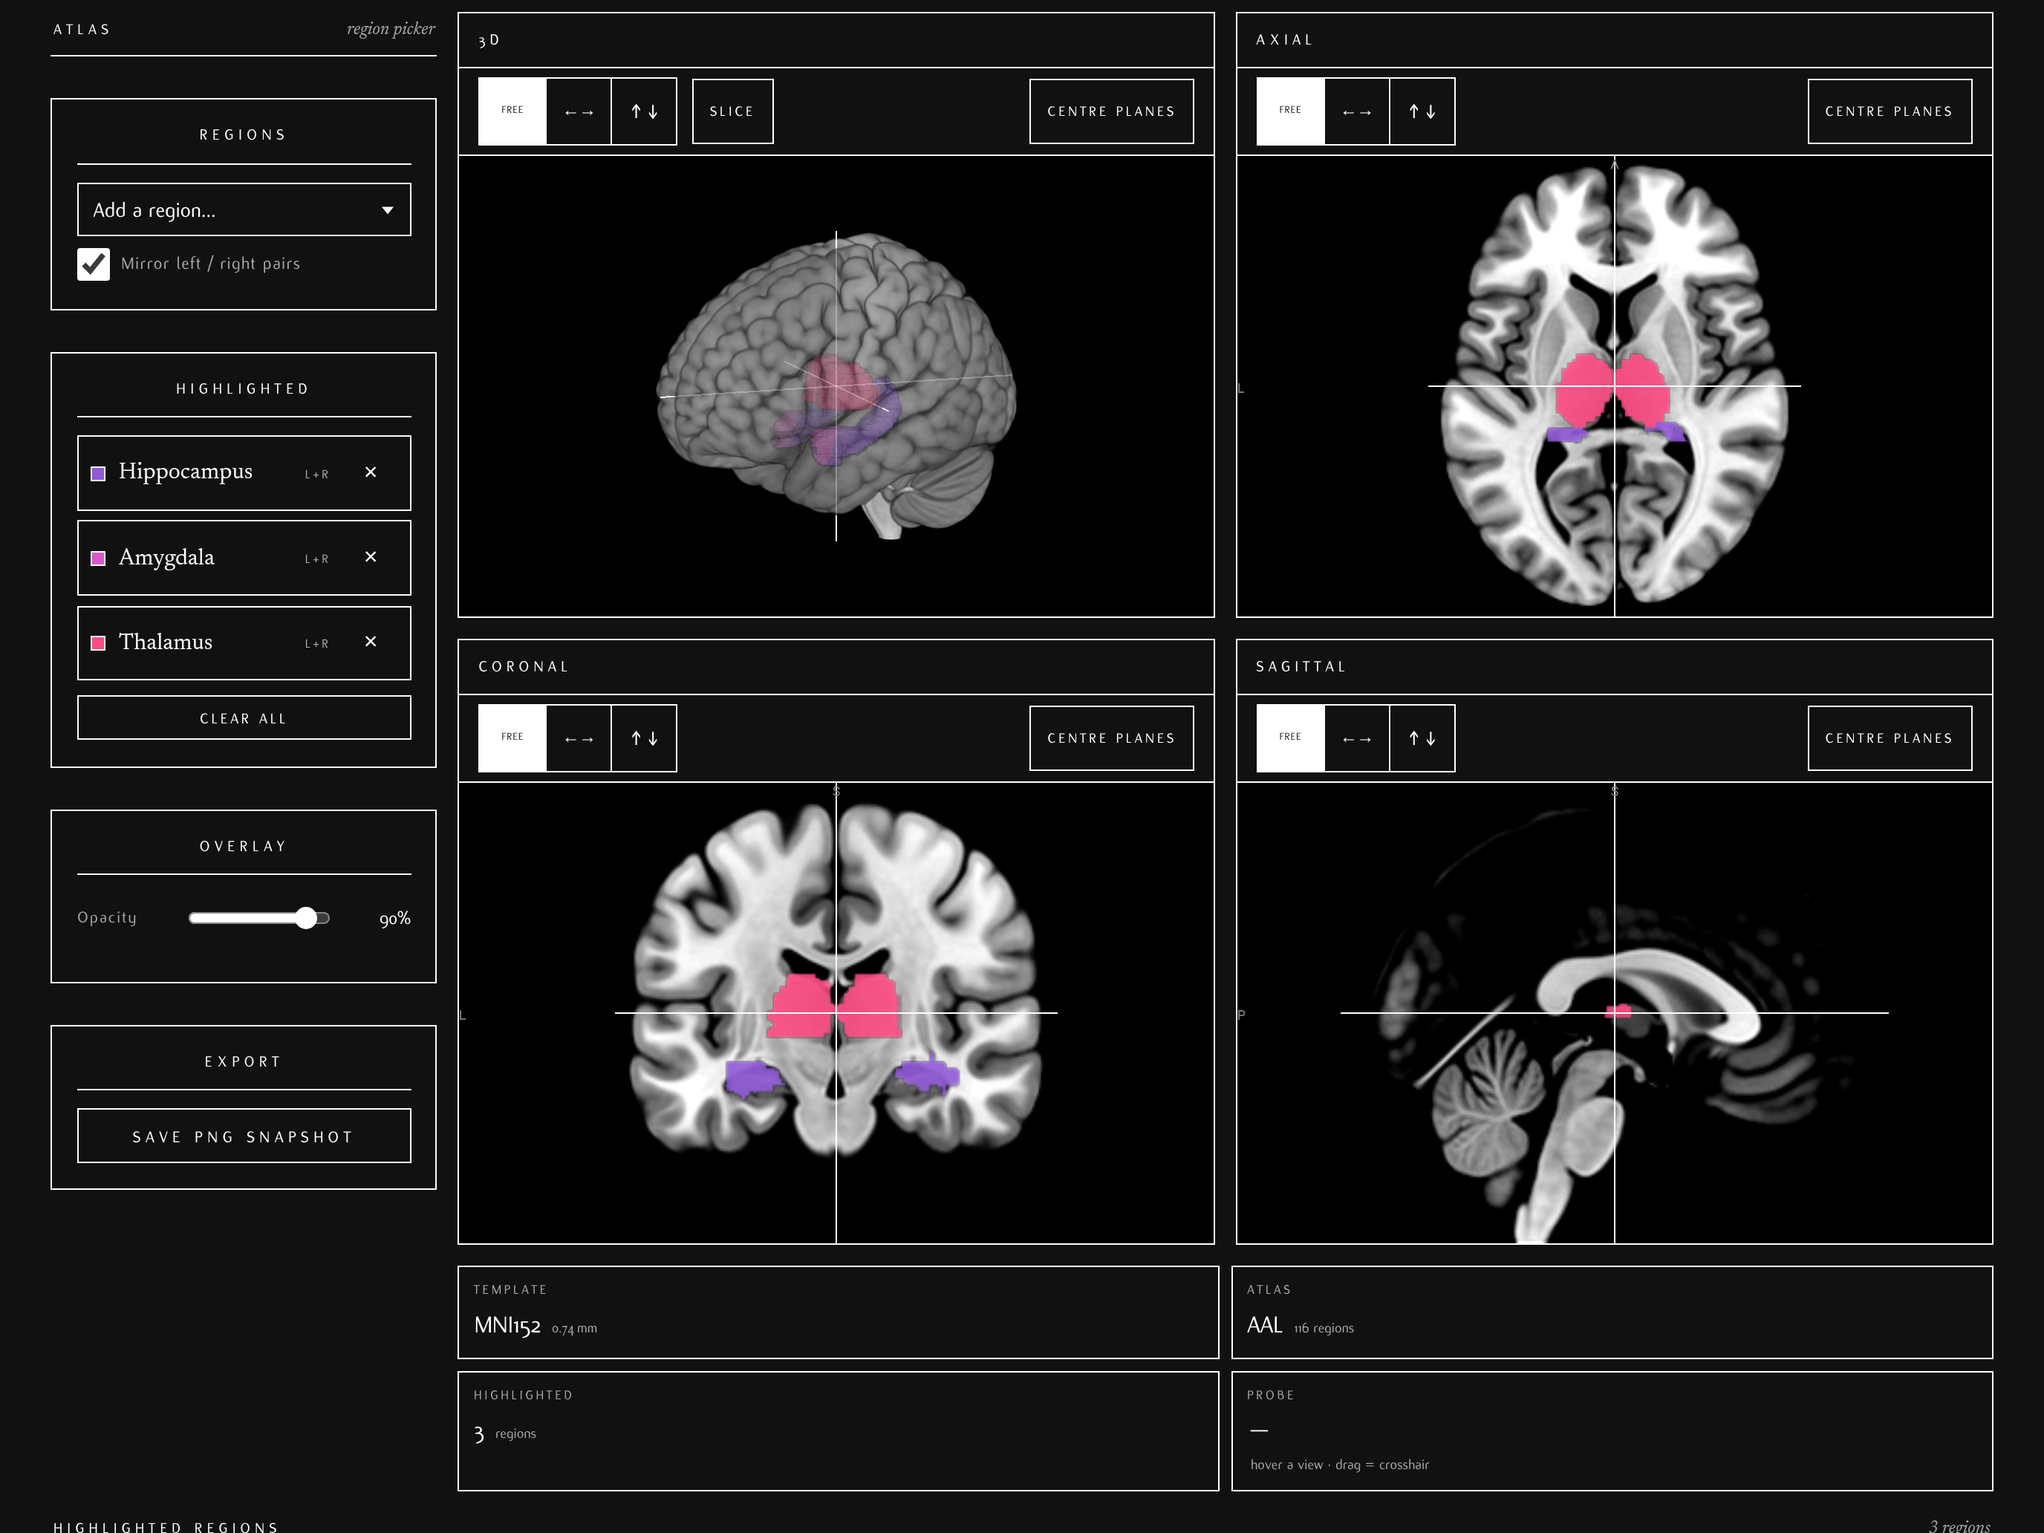
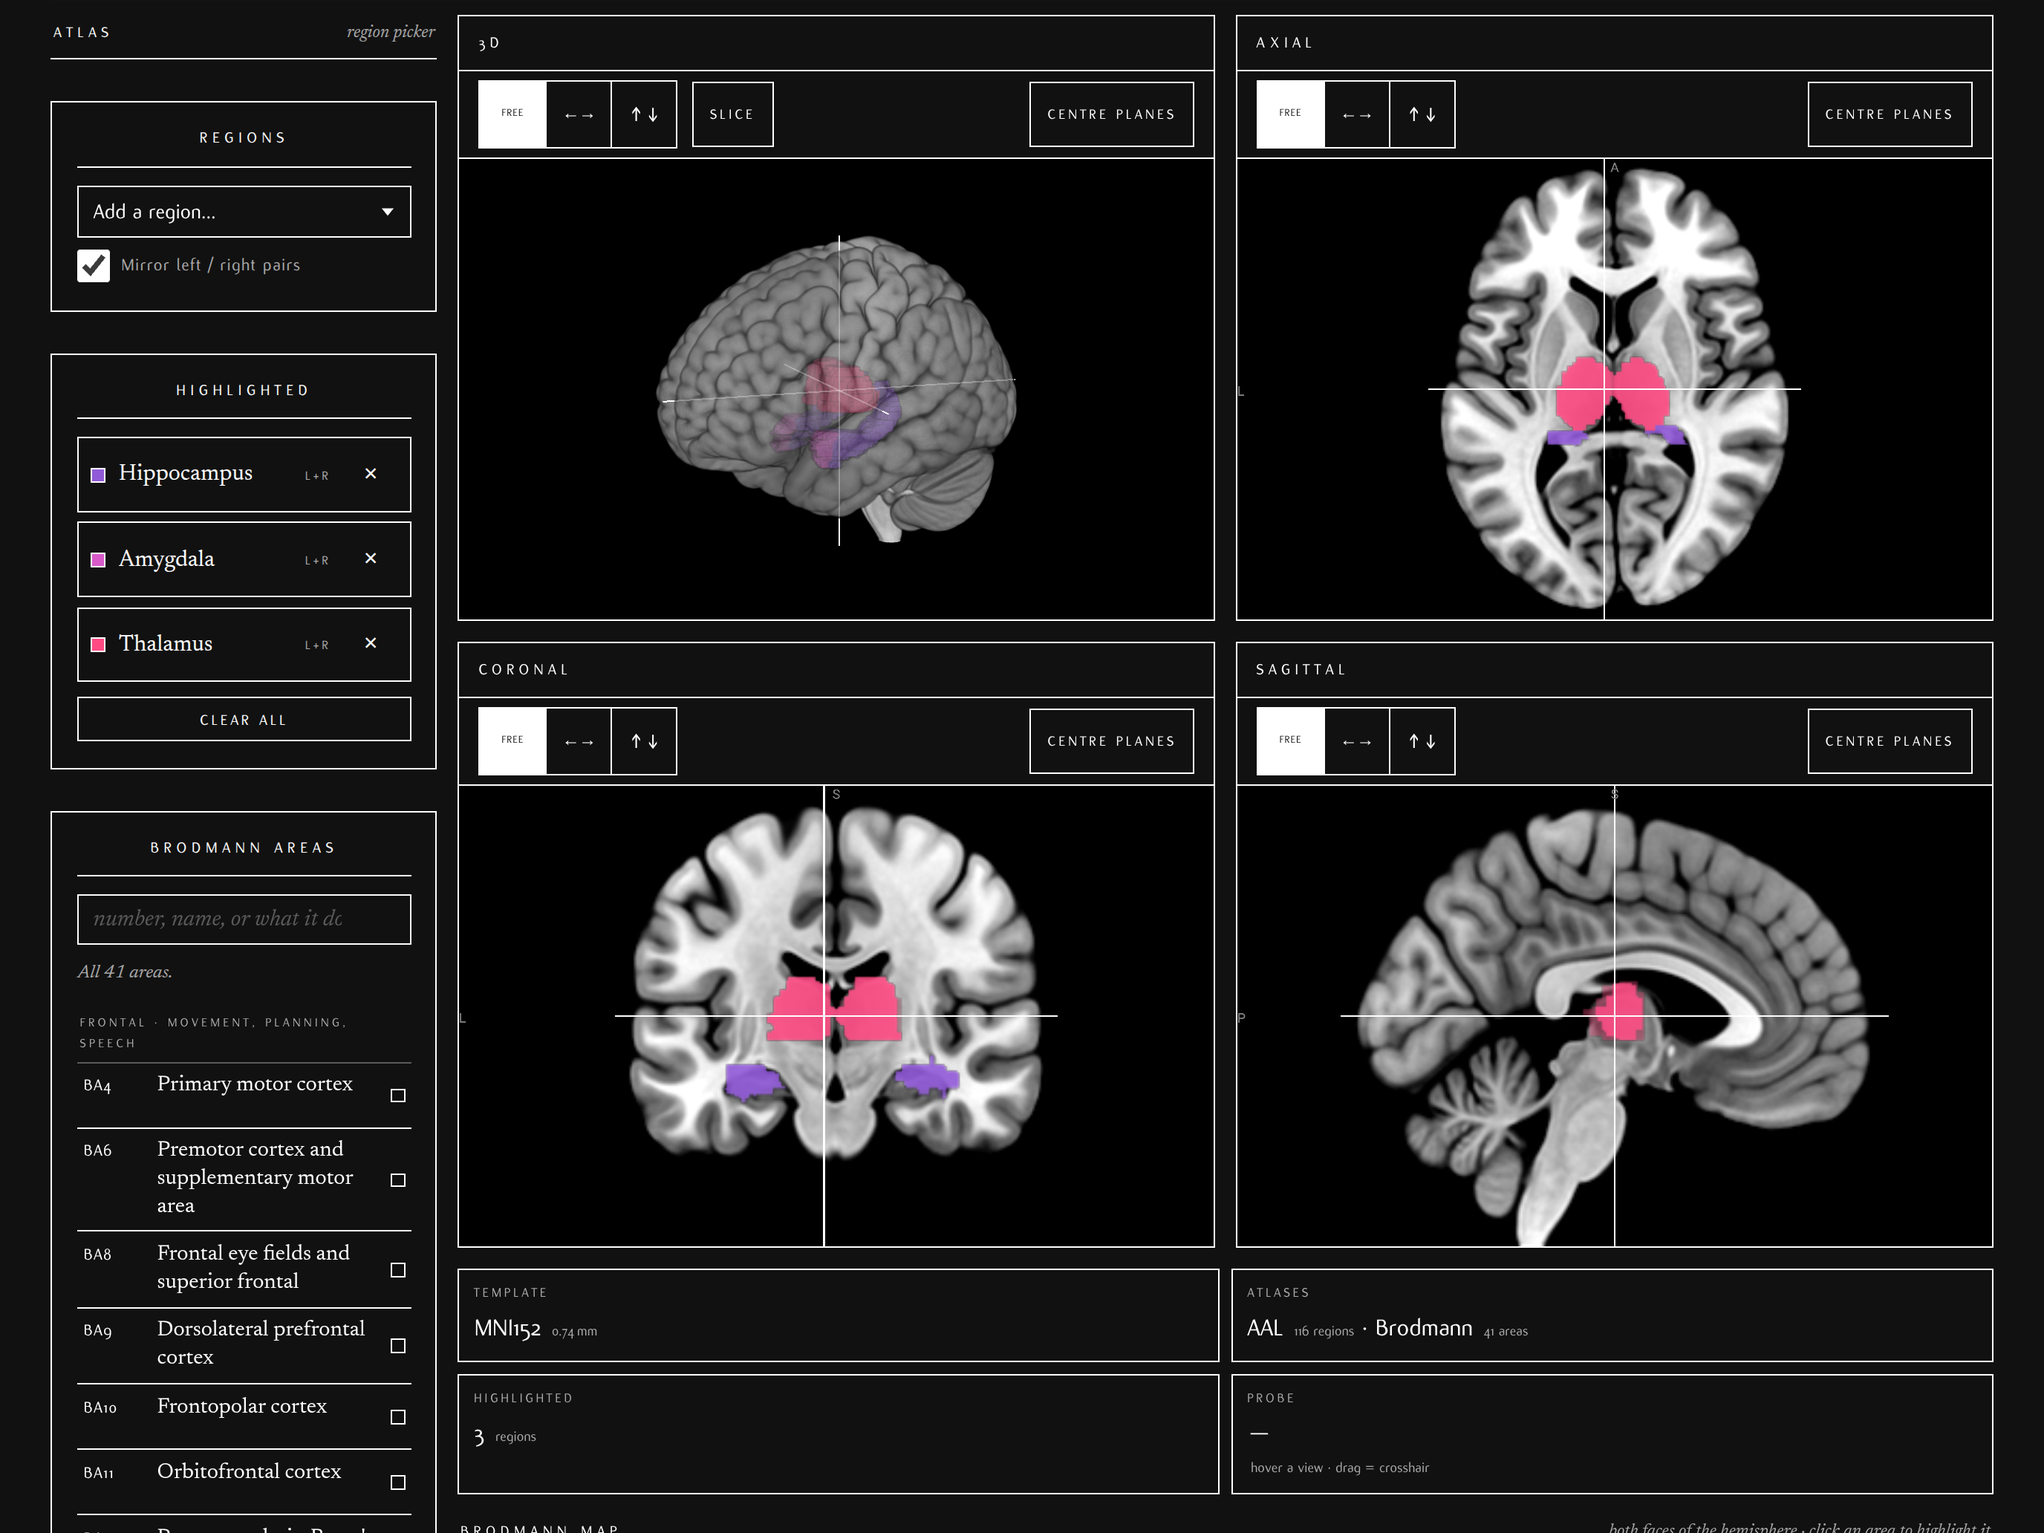
Start the sagittal plane beside the midline rather than in the gap between the hemispheres
The Region Atlas, the Network Atlas, the hallucinations page and the Vision Pro planes opened the sagittal view on the midline, which is the fluid between the hemispheres. They now open 4 mm into the left hemisphere and Centre planes returns there. Centring on a region goes to the left half of a pair, placed in millimetres from the atlas's own voxels, where the old fractional sum could land a centimetre or more off because the atlas and the template are different grids. A region picked from the atlas list now centres the planes on it, as a Brodmann area already did. The home page's picture of the atlas and the store screenshots of the atlas and the network page are retaken with the new view.

diff --git a/site/regions.html b/site/regions.html
@@ -1209,15 +1209,29 @@ mark{ background:var(--ink); color:var(--paper); }
     finally{ correcting = false; }
   }
 
-  /* Put the crosshair back at the middle of the volume, so every plane shows
-     its central slice again, and undo any panning or zooming with it. */
+  /* The planes start in the middle of the volume, bar one. The exact midline
+     runs down the fissure between the hemispheres, where a sagittal slice
+     finds only fluid and shows the corpus callosum and the brainstem floating
+     in black. So whenever a move would leave the sagittal plane within 4 mm
+     of the midline (at the start, on Centre planes, or centring on a region
+     or a Brodmann area) it goes 4 mm into the left hemisphere instead, onto
+     the medial wall of the cortex. */
+  var OFF_MIDLINE = 4;
+  function clearOfMidline(mm){
+    return [Math.abs(mm[0]) < OFF_MIDLINE ? -OFF_MIDLINE : mm[0], mm[1], mm[2]];
+  }
+  function homeMm(nv){ return clearOfMidline(nv.frac2mm([0.5, 0.5, 0.5])); }
+
+  /* Put the planes back where they started, and undo any panning or zooming
+     with them. */
   function centrePlanes(){
     var nvs = allNV();
     if (!nvs.length) return;
     correcting = true;
     try{
+      var home = homeMm(nvs[0]);
       nvs.forEach(function(inst){
-        inst.scene.crosshairPos = [0.5, 0.5, 0.5];
+        inst.scene.crosshairPos = inst.mm2frac(home);
         inst.scene.pan2Dxyzmm = [0, 0, 0, 1];
         inst.drawScene();
       });
@@ -1546,23 +1560,30 @@ mark{ background:var(--ink); color:var(--paper); }
       return e ? e.color : null;
     },
     lit: litColour,
+    /* A left–right pair is centred on its left member: the middle of a pair
+       is the midline, where the sagittal plane shows neither half. The
+       centre is found in the atlas's own voxels and placed by millimetres,
+       since the template the crosshair is measured against is a different
+       grid. */
     centre: function(indices){
       var nv = allNV()[0];
       if (!nv || !nv.volumes || nv.volumes.length < 2) return;
-      var vol = nv.volumes[1], dims = vol.hdr.dims, img = vol.img;
-      var want = {}; indices.forEach(function(v){ want[v] = 1; });
+      var vol = nv.volumes[1], dims = vol.hdr.dims, img = vol.img, A = vol.hdr.affine;
+      var first = indices.filter(function(v){ return v != null; })[0];
+      if (first == null || !A) return;
       var sx = 0, sy = 0, sz = 0, n = 0;
       for (var k2 = 0; k2 < dims[3]; k2++)
         for (var j = 0; j < dims[2]; j++)
           for (var i2 = 0; i2 < dims[1]; i2++)
-            if (want[img[i2 + j*dims[1] + k2*dims[1]*dims[2]]]){ sx += i2; sy += j; sz += k2; n++; }
+            if (img[i2 + j*dims[1] + k2*dims[1]*dims[2]] === first){ sx += i2; sy += j; sz += k2; n++; }
       if (!n) return;
-      var frac = [sx/n/dims[1], sy/n/dims[2], sz/n/dims[3]];
-      allNV().forEach(function(inst){ inst.scene.crosshairPos = frac.slice(); inst.drawScene(); });
+      var v = [sx/n, sy/n, sz/n];
+      centreMm([0, 1, 2].map(function(r){ return A[r][0]*v[0] + A[r][1]*v[1] + A[r][2]*v[2] + A[r][3]; }));
     },
     onChange: function(cb){ selWatchers.push(cb); }
   };
   function centreMm(mm){
+    mm = clearOfMidline(mm);
     allNV().forEach(function(nv){
       try{ nv.scene.crosshairPos = nv.mm2frac(mm); nv.drawScene(); }catch(e){}
     });
@@ -1584,7 +1605,7 @@ mark{ background:var(--ink); color:var(--paper); }
         else if (mode === "L") entry = {name: r.pretty, base: r.base, sideTag: "L", indices: [r.L], color: nextColor()};
         else if (mode === "R") entry = {name: r.pretty, base: r.base, sideTag: "R", indices: [r.R], color: nextColor()};
         else if (mode === "S") entry = {name: r.pretty, base: r.base, sideTag: "", indices: [r.S], color: nextColor()};
-        if (entry){ selections.set(key, entry); renderChips(); applyColormap(); }
+        if (entry){ selections.set(key, entry); renderChips(); applyColormap(); window.MN_SEL.centre(entry.indices); }
       }
     }
     selectEl.value = "";
@@ -2067,6 +2088,8 @@ mark{ background:var(--ink); color:var(--paper); }
                            .map(function(q){ return INSTANCES[q.key]; });
         INSTANCES[p.key].broadcastTo(others, {"2d": true, "3d": true});
       });
+      var home = homeMm(INSTANCES.axial);
+      allNV().forEach(function(inst){ inst.scene.crosshairPos = inst.mm2frac(home); });
 
       /* The slice tool goes on the 3D box only: a clip plane cuts the volume,
          which is what the render draws. The 2D planes already are slices. */

diff --git a/site/network-atlas.html b/site/network-atlas.html
@@ -548,8 +548,31 @@ function repaint(){
   paint(colouring);
 }
 
+/* The exact midline runs down the fissure between the hemispheres, where a
+   sagittal slice finds only fluid and shows the corpus callosum floating in
+   black. So whenever a move would leave the sagittal plane within 4 mm of
+   the midline (at the start, on Centre planes, or centring on a region) it
+   goes 4 mm into the left hemisphere instead, onto the medial wall of the
+   cortex. */
+const OFF_MIDLINE = 4;
+function clearOfMidline(mm){
+  return [Math.abs(mm[0]) < OFF_MIDLINE ? -OFF_MIDLINE : mm[0], mm[1], mm[2]];
+}
+function centrePlanes(){
+  const home = clearOfMidline(scanInstances[0].frac2mm([0.5, 0.5, 0.5]));
+  for (const inst of scanInstances){
+    inst.scene.crosshairPos = inst.mm2frac(home);
+    inst.scene.pan2Dxyzmm = [0, 0, 0, 1];
+    inst.drawScene();
+  }
+}
+
 /* Put the planes through the region that was picked, so the highlight is
-   actually on screen rather than three slices away. */
+   actually on screen rather than three slices away. A region that straddles
+   the midline, a left and right pair or a whole network, is centred on its
+   left half, for the reason above. The centre is found in the atlas's own
+   voxels and placed by millimetres, since the template the crosshair is
+   measured against is a different grid. */
 function centreOnRegion(n){
   if (!n.bases) return;
   centreOnParcels(parcelsOf(n));
@@ -557,19 +580,25 @@ function centreOnRegion(n){
 function centreOnParcels(list){
   if (scanState !== "ready" || !list.length) return;
   const want = new Set(list);
-  const vol = scanInstances[0].volumes[1], dims = vol.hdr.dims, img = vol.img;
-  let sx = 0, sy = 0, sz = 0, count = 0;
+  const vol = scanInstances[0].volumes[1], dims = vol.hdr.dims, img = vol.img, A = vol.hdr.affine;
+  const all = [0, 0, 0, 0], left = [0, 0, 0, 0];
   for (let k = 0; k < dims[3]; k++)
     for (let j = 0; j < dims[2]; j++)
       for (let i = 0; i < dims[1]; i++)
-        if (want.has(img[i + j*dims[1] + k*dims[1]*dims[2]])){ sx+=i; sy+=j; sz+=k; count++; }
-  if (!count) return;
-  const frac = [sx/count/dims[1], sy/count/dims[2], sz/count/dims[3]];
-  for (const inst of scanInstances){ inst.scene.crosshairPos = frac.slice(); inst.drawScene(); }
+        if (want.has(img[i + j*dims[1] + k*dims[1]*dims[2]])){
+          all[0]+=i; all[1]+=j; all[2]+=k; all[3]++;
+          if (A[0][0]*i + A[0][1]*j + A[0][2]*k + A[0][3] < 0){ left[0]+=i; left[1]+=j; left[2]+=k; left[3]++; }
+        }
+  if (!all[3]) return;
+  const mmOf = s => [0, 1, 2].map(r => (A[r][0]*s[0] + A[r][1]*s[1] + A[r][2]*s[2]) / s[3] + A[r][3]);
+  let mm = mmOf(all);
+  if (Math.abs(mm[0]) < OFF_MIDLINE && left[3]) mm = mmOf(left);
+  gotoMni(mm);
 }
 
 /* Regions with no parcel get the crosshair instead of a colour. */
 function gotoMni(mm){
+  mm = clearOfMidline(mm);
   for (const nv of scanInstances){
     try{
       nv.scene.crosshairPos = nv.mm2frac(mm);
@@ -611,6 +640,7 @@ async function ensureScan(){
     planes.forEach((p, i) => scanInstances[i].setSliceType(p.st));
     scanInstances.forEach(nv => nv.broadcastTo(
       scanInstances.filter(o => o !== nv), {"2d":true, "3d":true}));
+    centrePlanes();
 
     /* which node owns each parcel, for reading the ring back off the scan */
     for (const n of DATA.NODES){
@@ -619,13 +649,7 @@ async function ensureScan(){
     scanInstances.forEach(nv => { nv.onLocationChange = crosshairMoved; });
 
     document.querySelectorAll("[data-centre]").forEach(btn => {
-      btn.addEventListener("click", () => {
-        scanInstances.forEach(inst => {
-          inst.scene.crosshairPos = [0.5, 0.5, 0.5];
-          inst.scene.pan2Dxyzmm = [0, 0, 0, 1];
-          inst.drawScene();
-        });
-      });
+      btn.addEventListener("click", centrePlanes);
     });
     document.querySelectorAll(".mri-stage").forEach(stage => {
       stage.addEventListener("wheel", e => e.preventDefault(), {capture:true, passive:false});

diff --git a/site/hallucinations.html b/site/hallucinations.html
@@ -849,19 +849,48 @@ function repaint(){
   centreOnSelection();
 }
 
+/* The exact midline runs down the fissure between the hemispheres, where a
+   sagittal slice finds only fluid and shows the corpus callosum floating in
+   black. So whenever a move would leave the sagittal plane within 4 mm of
+   the midline (at the start, on Centre planes, or centring on a region) it
+   goes 4 mm into the left hemisphere instead, onto the medial wall of the
+   cortex. */
+const OFF_MIDLINE = 4;
+function clearOfMidline(mm){
+  return [Math.abs(mm[0]) < OFF_MIDLINE ? -OFF_MIDLINE : mm[0], mm[1], mm[2]];
+}
+function centrePlanes(){
+  const home = clearOfMidline(scanInstances[0].frac2mm([0.5, 0.5, 0.5]));
+  for (const inst of scanInstances){
+    inst.scene.crosshairPos = inst.mm2frac(home);
+    inst.scene.pan2Dxyzmm = [0, 0, 0, 1];
+    inst.drawScene();
+  }
+}
+
+/* A region that straddles the midline, as a left and right pair does, is
+   centred on its left half, for the reason above. The centre is found in the
+   atlas's own voxels and placed by millimetres, since the template the
+   crosshair is measured against is a different grid. */
 function centreOnSelection(){
   if (!selected || scanState !== "ready") return;
   const region = REGIONS.find(r => r.id === selected);
   const want = new Set(parcelsOf(region));
-  const nv = scanInstances[0], vol = nv.volumes[1], dims = vol.hdr.dims, img = vol.img;
-  let sx = 0, sy = 0, sz = 0, n = 0;
+  const nv = scanInstances[0], vol = nv.volumes[1], dims = vol.hdr.dims, img = vol.img, A = vol.hdr.affine;
+  const all = [0, 0, 0, 0], left = [0, 0, 0, 0];
   for (let k = 0; k < dims[3]; k++)
     for (let j = 0; j < dims[2]; j++)
       for (let i = 0; i < dims[1]; i++)
-        if (want.has(img[i + j*dims[1] + k*dims[1]*dims[2]])){ sx+=i; sy+=j; sz+=k; n++; }
-  if (!n) return;
-  const frac = [sx/n/dims[1], sy/n/dims[2], sz/n/dims[3]];
-  for (const inst of scanInstances){ inst.scene.crosshairPos = frac.slice(); inst.drawScene(); }
+        if (want.has(img[i + j*dims[1] + k*dims[1]*dims[2]])){
+          all[0]+=i; all[1]+=j; all[2]+=k; all[3]++;
+          if (A[0][0]*i + A[0][1]*j + A[0][2]*k + A[0][3] < 0){ left[0]+=i; left[1]+=j; left[2]+=k; left[3]++; }
+        }
+  if (!all[3]) return;
+  const mmOf = s => [0, 1, 2].map(r => (A[r][0]*s[0] + A[r][1]*s[1] + A[r][2]*s[2]) / s[3] + A[r][3]);
+  let mm = mmOf(all);
+  if (Math.abs(mm[0]) < OFF_MIDLINE && left[3]) mm = mmOf(left);
+  mm = clearOfMidline(mm);
+  for (const inst of scanInstances){ inst.scene.crosshairPos = inst.mm2frac(mm); inst.drawScene(); }
 }
 
 /* ── the rail's region list ── */
@@ -1102,14 +1131,9 @@ async function ensureScan(){
     planes.forEach((p, i) => scanInstances[i].setSliceType(p.st));
     scanInstances.forEach(nv => nv.broadcastTo(
       scanInstances.filter(o => o !== nv), {"2d":true, "3d":true}));
+    centrePlanes();
     document.querySelectorAll("[data-centre]").forEach(btn => {
-      btn.addEventListener("click", () => {
-        scanInstances.forEach(inst => {
-          inst.scene.crosshairPos = [0.5, 0.5, 0.5];
-          inst.scene.pan2Dxyzmm = [0, 0, 0, 1];
-          inst.drawScene();
-        });
-      });
+      btn.addEventListener("click", centrePlanes);
     });
     document.querySelectorAll(".mri-stage").forEach(stage => {
       stage.addEventListener("wheel", e => e.preventDefault(), {capture:true, passive:false});

diff --git a/site/assets/vision-scan.js b/site/assets/vision-scan.js
@@ -75,6 +75,13 @@ window.VS = (function(){
       {url: A.ATLAS_URL, name: "aal.nii.gz", opacity: 0.9}
     ]);
     nv.setSliceType(niivue.SLICE_TYPE[type.toUpperCase()]);
+    /* the middle of the volume, bar the sagittal plane: the exact midline
+       is the fluid between the hemispheres, so it starts 4 mm into the left
+       one, as the Region Atlas does */
+    try{
+      var mid = nv.frac2mm([0.5, 0.5, 0.5]);
+      nv.scene.crosshairPos = nv.mm2frac([-4, mid[1], mid[2]]);
+    }catch(e){}
     if (window.MN_LIFE) MN_LIFE.register(nv);
     instances.push(nv);
     /* the atlas ships with a rainbow of its own; from the first frame it

diff --git a/site/sw.js b/site/sw.js
@@ -21,7 +21,7 @@
    Nothing cross-origin is touched at all — since the typefaces moved
    in-house there is no outside request left to think about. */
 
-var VERSION = "vn-78";
+var VERSION = "vn-79";
 var SHELL   = VERSION + "-shell";
 var BULK    = VERSION + "-bulk";
 

diff --git a/docs/RELEASES.md b/docs/RELEASES.md
@@ -11,8 +11,13 @@ text below. Both can also be run from a clone on a machine that can push.
 
 Versions before v8.6 were released without a ledger and are not recorded.
 
+## v10.46 — 24 September 2026 — The side view shows the brain, not the gap between its halves
+Commit · Start the sagittal plane beside the midline rather than in the gap between the hemispheres
+
+The sagittal view used to open exactly on the midline, which runs down the fluid between the two hemispheres, so it showed the corpus callosum and the brainstem floating in black. It now opens 4 mm into the left hemisphere, on the medial wall of the cortex, and Centre planes goes back there; the Network Atlas, the hallucinations page and the Apple Vision Pro planes open the same way. Centring on a region that has a left and a right half now goes to the left one, so the sagittal plane passes through it rather than between the pair, and lands on the region's own centre, which it could miss by a centimetre or more before because the atlas and the template are drawn on different grids. A region picked from the list now brings the planes to it, as a Brodmann area already did. The picture of the atlas on the home page and the App Store screenshots of the atlas and the Network Atlas are retaken to match.
+
 ## v10.45 — 24 September 2026 — One address to write to
-Commit · Give fkarim@visualneuroscience.ai as the contact address everywhere
+Commit `c01179e` · Give fkarim@visualneuroscience.ai as the contact address everywhere
 
 The About page, the privacy page and the Apple Vision Pro about page now give fkarim@visualneuroscience.ai as the address to write to, in place of the old one, and so do the notes for the App Store listing. The newsletter notes add that the list's emails come from the same address, with how to verify it in Mailchimp, and warn against moving the domain's mail to Cloudflare while another provider holds that mailbox.
 
